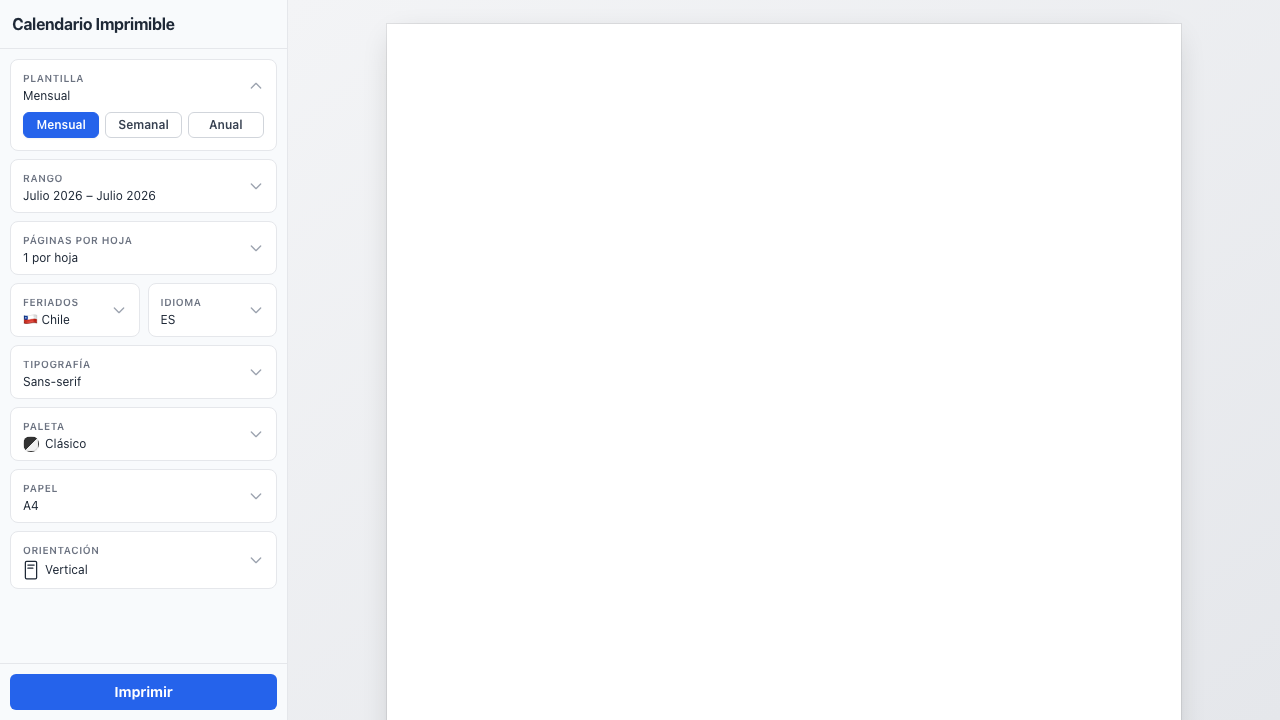
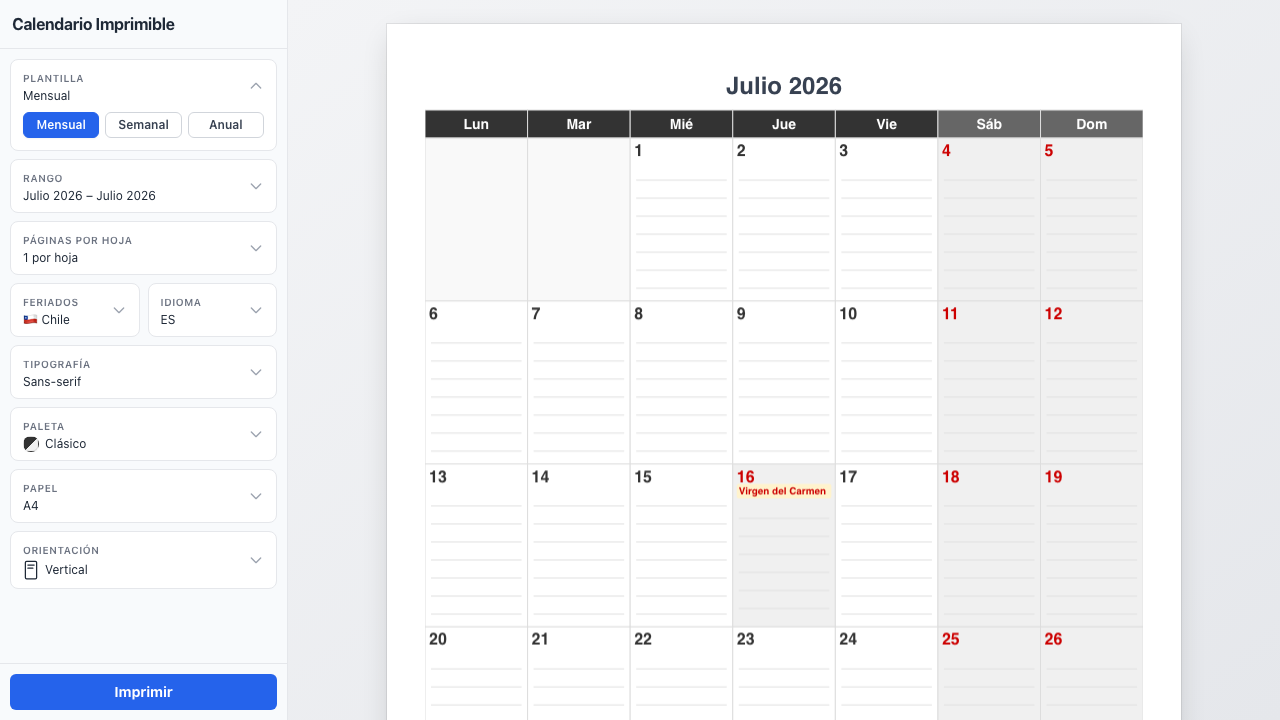
fix: wait for canvas render before screenshot

diff --git a/tests/screenshot.spec.ts b/tests/screenshot.spec.ts
@@ -2,6 +2,15 @@ import { test } from '@playwright/test'
 
 test('take screenshot', async ({ page }) => {
   await page.goto('/')
-  await page.waitForTimeout(2000)
+  await page.waitForSelector('canvas.canvas-page', { timeout: 10000 })
+  await page.waitForFunction(() => {
+    const c = document.querySelector('canvas.canvas-page')
+    if (!c) return false
+    const ctx = (c as HTMLCanvasElement).getContext('2d')
+    if (!ctx) return false
+    const img = ctx.getImageData(0, 0, 1, 1)
+    return img.data[3] !== 0
+  }, { timeout: 10000 })
+  await page.waitForTimeout(500)
   await page.screenshot({ path: 'screenshot.png', fullPage: true })
 })